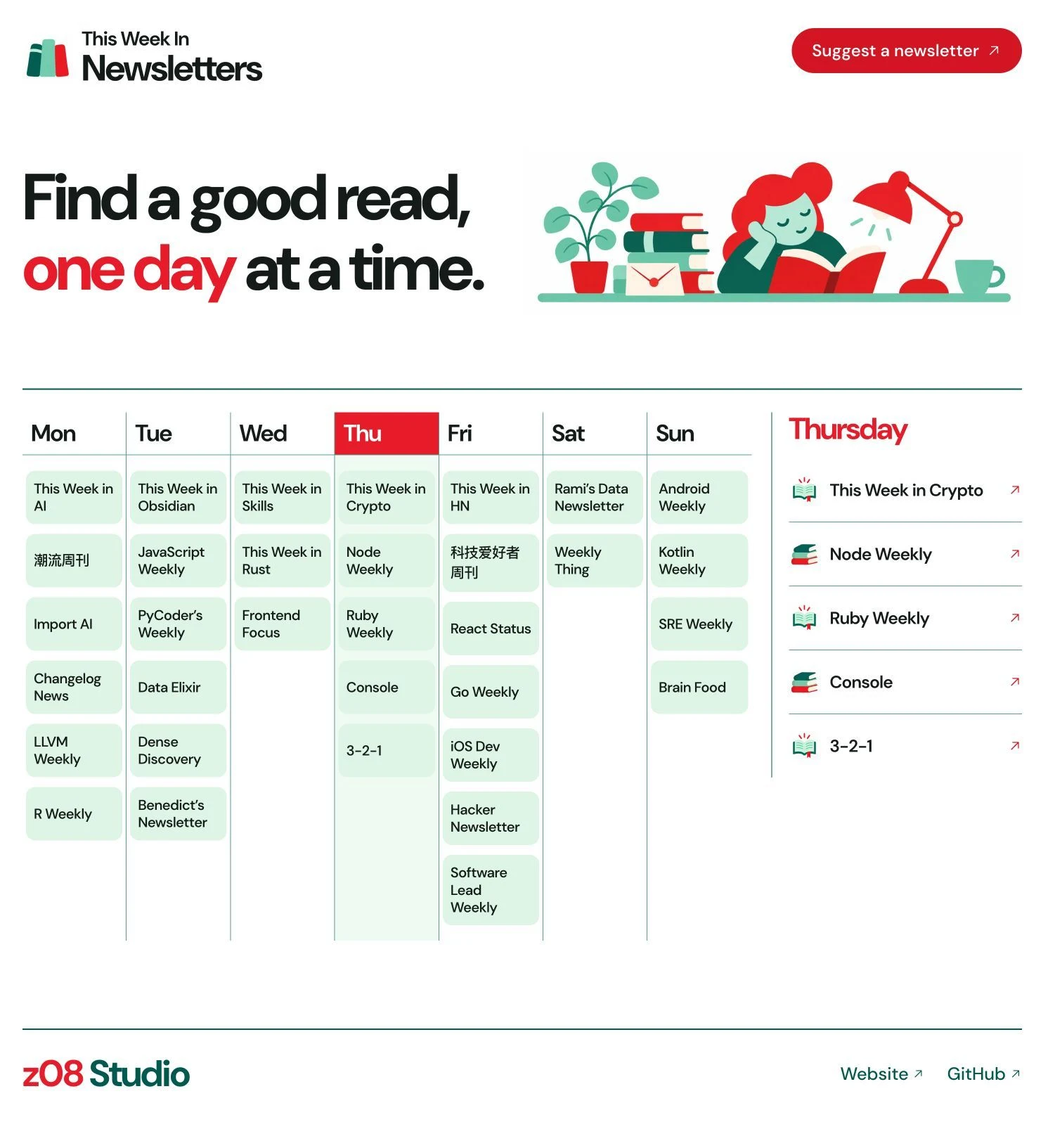
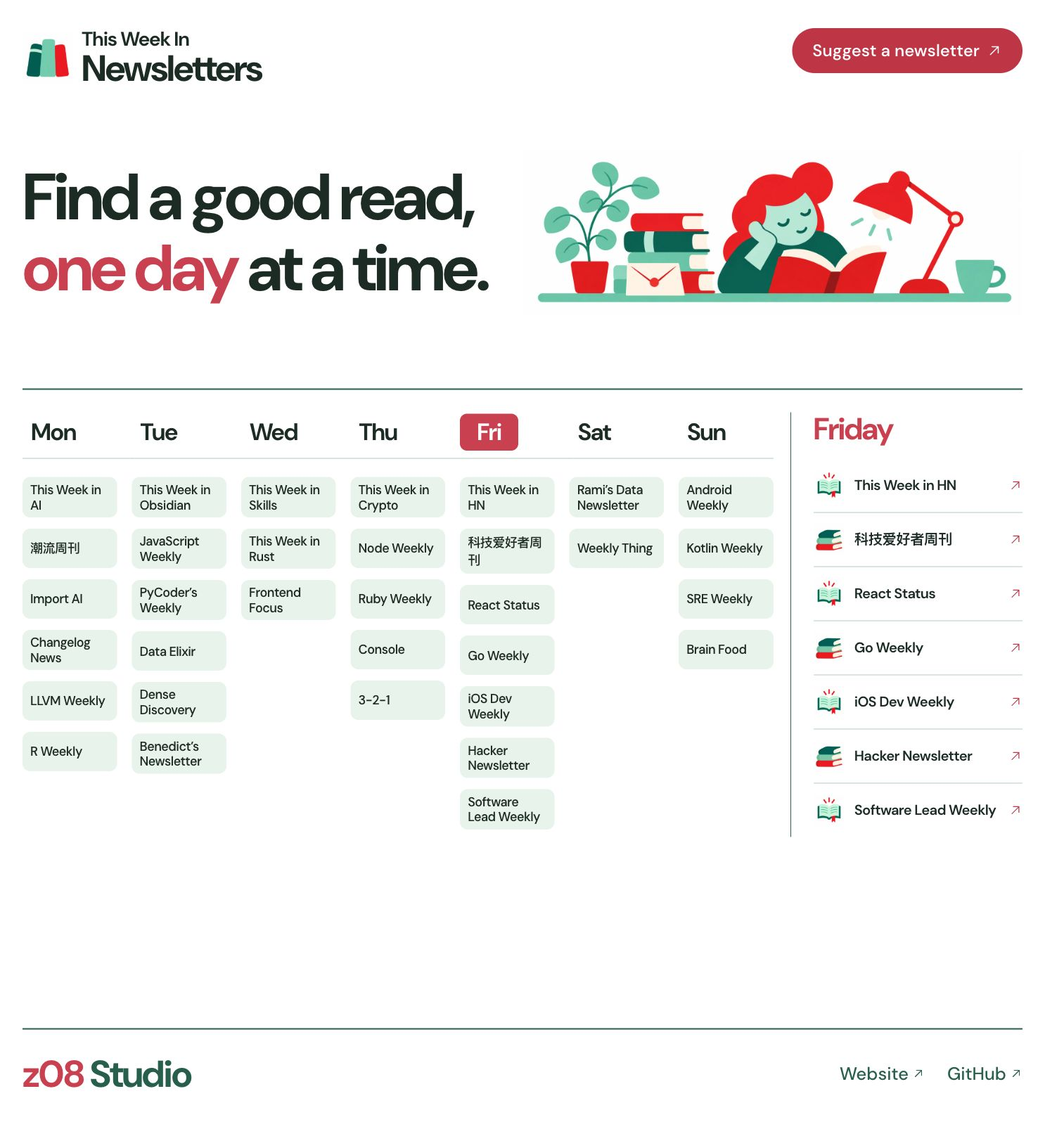
feat: refine newsletter calendar with lighter mint slips, softer raspberry accents, clearer selection states, and stable reading panel spacing

diff --git a/src/styles/global.css b/src/styles/global.css
@@ -7,13 +7,15 @@
 }
 :root {
   --paper: #fff;
-  --ink: #141b18;
-  --teal: #00594f;
-  --rule: #51a18e;
-  --mint: #def5e5;
-  --selected: #eefaf2;
-  --red: #e71b29;
-  --action-red: #d31422;
+  --ink: #1c2c24;
+  --teal: #285f4c;
+  --rule: #b3cdbe;
+  --mint: #e8f3ec;
+  --hover: #dceee3;
+  --selected: #cfe6d8;
+  --selection-border: #4b8169;
+  --red: #c94050;
+  --action-red: #be3546;
   --sans: 'DM Sans', -apple-system, BlinkMacSystemFont, 'PingFang SC', 'Noto Sans CJK SC', sans-serif;
   font-family: var(--sans);
   color: var(--ink);
@@ -45,7 +47,7 @@ h1, h2, h3, p { margin: 0; }
 .arrow-icon { display: inline-block; flex: 0 0 auto; width: 1em; height: 1em; background: currentColor; mask: url('/icons/arrow-up-right.svg') center / contain no-repeat; vertical-align: -.12em; }
 .submit-button { display: inline-flex; align-items: center; justify-content: center; gap: 10px; flex-shrink: 0; align-self: flex-start; min-height: 64px; padding: 12px 28px; border: 1px solid transparent; border-radius: 999px; color: #fff; background: var(--action-red); font-size: 24px; font-weight: 550; line-height: 1.3; text-decoration: none; transition: background 150ms, transform 150ms; }
 .submit-button .arrow-icon { width: 22px; height: 22px; }
-.submit-button:hover { background: #b50c1a; transform: translateY(-1px); }
+.submit-button:hover { background: #a82d3e; transform: translateY(-1px); }
 .submit-button:active { transform: translateY(0); }
 
 .reading-hero { display: grid; flex-shrink: 0; grid-template-columns: minmax(0, .49fr) minmax(0, .51fr); align-items: center; gap: 30px; margin-top: clamp(32px, calc(10svh - 72px), 100px); padding-bottom: clamp(40px, calc(9svh - 40px), 104px); }
@@ -54,33 +56,38 @@ h1, h2, h3, p { margin: 0; }
 .reading-hero h1 em { font-style: normal; color: var(--red); }
 .reading-illustration { display: block; width: 100%; max-width: 1100px; justify-self: end; height: auto; pointer-events: none; mix-blend-mode: multiply; }
 
-.directory { --calendar-sticky-top: 0px; --reading-sticky-top: 24px; display: grid; flex-shrink: 0; grid-template-columns: minmax(0, 1fr) clamp(320px, 24vw, 460px); align-items: start; gap: 28px; padding-block: 32px 40px; border-top: 2px solid var(--teal); }
+/* Reserve room for the longest day overview without stretching the visible slips. */
+.directory { --calendar-sticky-top: 0px; --reading-sticky-top: 24px; display: grid; flex-shrink: 0; grid-template-columns: minmax(0, 1fr) clamp(320px, 22vw, 432px); align-items: start; gap: 24px; min-height: calc(208px + var(--max-day-entries, 7) * 80px); padding-block: 32px 40px; border-top: 2px solid var(--teal); }
 .calendar-viewport { min-width: 0; }
-.calendar-grid { display: grid; grid-template-columns: repeat(7, minmax(0, 1fr)); }
-.calendar-day { display: flex; flex-direction: column; min-width: 0; border-inline-end: 1px solid var(--rule); transition: background 160ms; }
-.calendar-day:last-child { border-inline-end: none; }
-.calendar-day.is-selected { background: var(--selected); }
-.day-heading { position: sticky; top: var(--calendar-sticky-top); z-index: 2; flex: 0 0 auto; border-bottom: 1px solid var(--rule); background: var(--paper); }
-.day-heading button { display: block; width: 100%; min-height: 60px; padding: 10px 8px 10px 12px; border: 0; color: var(--ink); background: transparent; font-size: clamp(25px, 2.25vw, 36px); font-weight: 650; line-height: 1.08; letter-spacing: -.04em; text-align: left; transition: background 150ms, color 150ms; }
-.day-heading abbr { text-decoration: none; }
-.day-heading button:hover { color: var(--teal); background: var(--mint); }
-.day-heading button[aria-pressed='true'] { color: #fff; background: var(--red); }
-.day-heading button:focus-visible { position: relative; z-index: 2; outline-offset: -3px; }
-.calendar-titles { display: flex; flex-direction: column; gap: 14px; list-style: none; margin: 0; padding: 22px 5px; }
+.calendar-grid { --day-gap: clamp(14px, 1.4vw, 28px); display: grid; grid-template-columns: repeat(7, minmax(0, 1fr)); gap: var(--day-gap); }
+.calendar-day { display: flex; flex-direction: column; min-width: 0; }
+.day-heading { position: sticky; top: var(--calendar-sticky-top); z-index: 2; flex: 0 0 auto; background: var(--paper); }
+/* The rule spans the gutters; transparent columns share the same sticky boundary. */
+.day-heading::after { content: ''; position: absolute; inset: auto calc(-1 * var(--day-gap)) 0 0; border-bottom: 1px solid var(--rule); pointer-events: none; }
+.calendar-day:last-child .day-heading::after { right: 0; }
+.day-heading button { display: block; width: 100%; min-height: 66px; padding: 0 0 10px; border: 0; border-radius: 10px; color: var(--ink); background: var(--paper); font-size: clamp(25px, 2.25vw, 36px); font-weight: 650; line-height: 1.08; letter-spacing: -.04em; text-align: left; }
+.day-heading abbr { display: inline-flex; align-items: center; min-height: 52px; padding: 8px 12px; border-radius: 10px; text-decoration: none; transition: background 150ms, color 150ms; }
+.day-heading button:hover abbr { color: var(--teal); background: var(--mint); }
+.day-heading button[aria-pressed='true'] abbr { padding-inline: 24px; color: #fff; background: var(--red); }
+.day-heading button:focus-visible { position: relative; z-index: 2; outline-offset: 2px; }
+.calendar-titles { display: flex; flex-direction: column; gap: 16px; list-style: none; margin: 0; padding: 26px 0 0; }
 .calendar-titles li { flex: 0 0 auto; min-width: 0; }
-.calendar-card { display: flex; align-items: center; width: 100%; min-height: 76px; padding: 12px 10px; scroll-margin-block: 84px 24px; border: 1px solid transparent; border-radius: 13px; color: var(--ink); background: var(--mint); font-size: clamp(19px, 1.36vw, 23px); font-weight: 550; line-height: 1.22; letter-spacing: -.03em; text-align: left; text-wrap: wrap; overflow-wrap: break-word; transition: background 150ms, border-color 150ms, transform 150ms; }
+.calendar-card { display: flex; align-items: center; width: 100%; min-height: 56px; padding: 6px 10px; scroll-margin-block: 84px 24px; border: 1px solid transparent; border-radius: 11px; color: var(--ink); background: var(--mint); font-size: clamp(18px, 1.1vw, 22px); font-weight: 550; line-height: 1.2; letter-spacing: -.03em; text-align: left; text-wrap: wrap; overflow-wrap: break-word; transition: background 150ms, border-color 150ms; }
 .calendar-card:lang(zh-CN) { font-weight: 500; line-height: 1.4; letter-spacing: -.025em; }
-.calendar-card:hover, .calendar-card:focus-visible, .calendar-card[aria-pressed='true'] { border-color: var(--teal); background: #cef0db; transform: translateY(-2px); }
+.calendar-card:hover { background: var(--hover); }
+.calendar-card[aria-pressed='true'] { border-color: var(--selection-border); background: var(--selected); color: var(--teal); }
+/* Keyboard focus replaces the thin selection edge instead of forming a double ring. */
+.calendar-card:focus-visible { border-color: transparent; outline: 2px solid var(--teal); outline-offset: 3px; }
 
-.day-details { min-width: 0; align-self: start; border-left: 1px solid var(--teal); padding-left: 24px; }
+.day-details { min-width: 0; align-self: start; border-left: 1px solid var(--teal); padding-left: 32px; }
 .day-details[data-sticky='true'] { position: sticky; top: var(--reading-sticky-top); }
 .day-detail > h2 { padding-block: 0 18px; color: var(--red); font-size: clamp(32px, 2.9vw, 46px); font-weight: 700; line-height: 1.1; letter-spacing: -.04em; }
 .reading-list > ul { list-style: none; padding: 0; margin: 0; }
 .reading-item { border-bottom: 1px solid var(--rule); }
 .reading-item:last-child { border-bottom: 0; }
-.reading-entry { display: grid; grid-template-columns: 44px minmax(0, 1fr) 20px; align-items: center; gap: 14px; width: 100%; min-height: 90px; padding: 18px 0; border: 0; color: var(--ink); background: none; text-align: left; }
+.reading-entry { display: grid; grid-template-columns: 44px minmax(0, 1fr) 20px; align-items: center; gap: 14px; width: 100%; min-height: 76px; padding: 12px 0; border: 0; color: var(--ink); background: none; text-align: left; }
 .reading-motif { display: block; width: 44px; height: 48px; object-fit: contain; mix-blend-mode: multiply; }
-.reading-name { min-width: 0; font-size: clamp(20px, 1.65vw, 27px); font-weight: 600; line-height: 1.2; letter-spacing: -.035em; overflow-wrap: break-word; }
+.reading-name { min-width: 0; font-size: clamp(20px, 1.35vw, 25px); font-weight: 600; line-height: 1.2; letter-spacing: -.035em; overflow-wrap: break-word; }
 .reading-name:lang(zh-CN) { letter-spacing: -.02em; }
 .reading-entry > .arrow-icon { width: 20px; height: 20px; color: var(--action-red); }
 .reading-entry:hover .reading-name { color: var(--teal); }
@@ -89,29 +96,29 @@ h1, h2, h3, p { margin: 0; }
 .empty-day > p:last-child { font-size: 16px; line-height: 1.5; }
 
 .newsletter-detail { scroll-margin-top: 24px; }
-.back-to-day { display: inline-flex; align-items: center; gap: 8px; min-height: 32px; padding: 0; margin: 0 0 12px; border: 0; background: none; color: var(--teal); font-size: 14px; font-weight: 550; }
+.back-to-day { display: inline-flex; align-items: center; gap: 8px; min-height: 32px; padding: 0; margin: 0 0 24px; border: 0; background: none; color: var(--teal); font-size: clamp(14px, .9vw, 18px); font-weight: 550; }
 .back-to-day:hover { text-decoration: underline; }
 .back-arrow { display: inline-block; width: 19px; height: 19px; background: currentColor; mask: url('/icons/arrow-left.svg') center / contain no-repeat; }
 .detail-heading { display: flex; align-items: center; gap: 10px; }
 .detail-motif { display: block; flex: 0 0 auto; width: 44px; height: 44px; object-fit: contain; mix-blend-mode: multiply; }
 .detail-heading h2 { min-width: 0; color: var(--red); font-size: clamp(28px, 2.1vw, 36px); font-weight: 700; line-height: 1.1; letter-spacing: -.045em; overflow-wrap: break-word; }
-.detail-description { margin-top: 16px; font-size: 16px; line-height: 1.55; }
-.detail-facts { display: flex; flex-wrap: wrap; gap: 5px 12px; padding-block: 12px 16px; margin: 0; font-size: 14px; line-height: 1.45; }
+.detail-description { margin-top: 16px; font-size: clamp(16px, .95vw, 19px); line-height: 1.45; letter-spacing: -.01em; }
+.detail-facts { display: flex; flex-wrap: wrap; gap: 5px 12px; padding-block: 12px 16px; margin: 0; font-size: clamp(14px, .85vw, 17px); line-height: 1.45; }
 .detail-facts > div { min-width: 0; }
 .detail-facts > div + div { padding-left: 12px; border-left: 1px solid var(--rule); }
 .detail-facts > .detail-topics { color: var(--teal); }
 .detail-facts dd { margin: 0; }
-.publication-link { display: inline-flex; align-items: center; justify-content: space-between; gap: 24px; min-height: 44px; padding: 10px 16px; border-radius: 9px; background: var(--mint); color: var(--teal); font-size: 15px; font-weight: 600; text-decoration: none; }
-.publication-link:hover { background: #cef0db; }
-.recent-issues { margin-top: 20px; padding-top: 16px; border-top: 1px solid var(--rule); }
-.recent-issues h3 { margin-bottom: 6px; color: var(--teal); font-size: 22px; font-weight: 650; letter-spacing: -.03em; }
+.publication-link { display: inline-flex; align-items: center; justify-content: space-between; gap: 24px; min-height: 48px; padding: 10px 18px; border-radius: 9px; background: var(--mint); color: var(--teal); font-size: clamp(15px, .95vw, 19px); font-weight: 600; text-decoration: none; }
+.publication-link:hover { background: var(--hover); }
+.recent-issues { margin-top: 24px; padding-top: 18px; border-top: 1px solid var(--rule); }
+.recent-issues h3 { margin-bottom: 6px; color: var(--teal); font-size: clamp(22px, 1.4vw, 27px); font-weight: 650; letter-spacing: -.03em; }
 .recent-issues ol { list-style: none; padding: 0; margin: 0; }
-.recent-issues li + li { border-top: 1px solid #51a18e55; }
-.recent-issues li a { display: flex; align-items: center; justify-content: space-between; gap: 12px; min-height: 60px; padding-block: 10px; font-size: 16px; font-weight: 500; line-height: 1.3; text-decoration: none; }
+.recent-issues li + li { border-top: 1px solid var(--rule); }
+.recent-issues li a { display: flex; align-items: center; justify-content: space-between; gap: 12px; min-height: 60px; padding-block: 10px; font-size: clamp(16px, 1vw, 20px); font-weight: 500; line-height: 1.3; text-decoration: none; }
 .recent-issues li a:hover { color: var(--action-red); }
 .recent-issues time { display: block; padding-top: 5px; color: var(--teal); font-size: 12px; font-weight: 400; line-height: 1.4; }
-.recent-issues .arrow-icon { width: 17px; height: 17px; color: var(--action-red); }
-.archive-link { display: inline-flex; align-items: center; gap: 6px; min-height: 36px; margin-top: 8px; color: var(--action-red); font-size: 15px; font-weight: 550; text-decoration: none; }
+.recent-issues .arrow-icon { width: 20px; height: 20px; color: var(--action-red); }
+.archive-link { display: inline-flex; align-items: center; gap: 6px; min-height: 40px; margin-top: 8px; color: var(--action-red); font-size: clamp(15px, .95vw, 19px); font-weight: 550; text-decoration: none; }
 .archive-link:hover { text-decoration: underline; }
 
 .site-footer { display: grid; flex-shrink: 0; grid-template-columns: 1fr auto; align-items: center; gap: 32px; margin-top: auto; padding-block: 34px 40px; border-top: 2px solid var(--teal); }
@@ -141,7 +148,7 @@ h1, h2, h3, p { margin: 0; }
 @media (max-width: 1270px) {
   .reading-hero { margin-top: 32px; padding-bottom: 40px; }
   .reading-hero h1 { font-size: clamp(34px, 4.3vw, 52px); }
-  .directory { grid-template-columns: 1fr; gap: 28px; }
+  .directory { grid-template-columns: 1fr; gap: 28px; min-height: 0; }
   .day-details { padding: 24px 0 0; border-left: 0; border-top: 1px solid var(--teal); }
   .day-details[data-sticky='true'] { position: static; }
   .reading-entry { grid-template-columns: 44px minmax(0, 1fr) 20px; min-height: 80px; }
@@ -161,9 +168,14 @@ h1, h2, h3, p { margin: 0; }
   .reading-hero h1 { font-size: clamp(36px, 8vw, 62px); line-height: 1.08; }
   .reading-illustration { max-width: 720px; justify-self: center; }
   .directory { gap: 20px; padding-block: 20px 32px; }
-  .calendar-day, .calendar-day:last-child { border: 0; }
+  .calendar-grid { --day-gap: 4px; }
   .day-heading { position: static; border: 0; }
+  .day-heading::after { display: none; }
   .day-heading button { min-height: 48px; padding: 10px 0; font-size: clamp(18px, 4.8vw, 26px); text-align: center; }
+  .day-heading abbr { justify-content: center; width: 100%; min-height: 28px; padding: 0; border-radius: 7px; }
+  .day-heading button[aria-pressed='true'] abbr { padding-inline: 0; }
+  .day-heading button[aria-pressed='true'] { color: #fff; background: var(--red); }
+  .day-heading button:hover abbr { color: inherit; background: transparent; }
   .calendar-titles { display: none; }
   .day-detail > h2 { font-size: 34px; }
   .reading-entry { min-height: 84px; padding-block: 16px; gap: 12px; }

diff --git a/design-qa.md b/design-qa.md
@@ -1,65 +1,61 @@
-# Daily desk design QA
+# Light slips design QA
 
 **Findings**
 
-No actionable P0/P1/P2 findings remain. The implementation follows the second displayed footer/typography concept selected by the editor: DM Sans, a stronger masthead, whole-row publication controls, and a footer at the bottom of short pages without covering long content.
+No actionable P0/P1/P2 findings remain. The implementation follows the selected first calendar concept and its accepted color refinement: lighter mint slips, wider day gutters, a compact raspberry weekday tab, forest-green accents, and one jade publication selection. The approved masthead and footer composition remain in place.
 
 **Source, viewport, and comparisons**
 
-- Exact selected source: `docs/design/daily-desk-reference.png`, 1214 x 1295 pixels, the second displayed image from the latest typography exploration.
-- Matching state: Thursday day overview, white theme, all 33 publications, no selected publication.
-- Final browser capture: `output/daily-desk/desktop-final.png`, 1501 x 1596 pixels at a 1501 x 1596 CSS viewport and devicePixelRatio 1, captured in the in-app browser.
-- Source normalization: proportional containment in a 1501 x 1596 white frame, with approximately 2px horizontal padding. No stretching or device chrome. The generated source is a visual concept, not a literal CSS specification.
-- Full-view evidence, opened together: `output/daily-desk/comparison-final.png`.
-- Focused reader evidence: `output/daily-desk/reader-comparison.png`, equal 380 x 550 regions at x1090, y575 in the normalized source and implementation. Type, rows, motifs, arrows, and separators are readable at this size.
-- Responsive evidence: `mobile-day.png`, `mobile-detail.png`, `mobile-320.png`, `mobile-comparison.png`, and `tablet-final.png` under `output/daily-desk/`.
-- Other evidence: `desktop-detail-final.png`, `scroll-desktop.png`, `short-screen.png`, and `wide.png` in the same folder.
-- Durable previews: `docs/design/desktop.webp`, `publication-detail.webp`, `mobile.webp`, and `scrolled.webp`.
+- Exact accepted source: `docs/design/light-slips-reference.png`, 2048 x 768 pixels. This is the refined image displayed after the editor selected Light slips, not either alternative from the initial set.
+- Implementation state: Friday with Software Lead Weekly selected, all 33 publications, and reviewed issues 727, 726, and 725. Local route: `/?day=friday&newsletter=software-lead-weekly`.
+- Primary browser viewport: 2027 x 1600 CSS pixels, devicePixelRatio 1, in the in-app browser. The full-page screenshot is `output/light-slips/desktop-final.jpg`, 2012 x 1600 pixels; the export omits the stable scrollbar gutter.
+- The visual target contains only the directory component. Its content crop is x56, y68, width1948, height630. The matching implementation capture starts at x32, y676.86 with the same 1948 x 630 dimensions. Both are unscaled, with no device frame or browser chrome. Header/footer remain governed by the previously accepted Daily desk composition.
+- Full component comparison: `output/light-slips/comparison-final.png`, source above implementation. Both images were opened in this combined input.
+- Focused reader comparison: `output/light-slips/reader-comparison-final.png`, source left, implementation right, equal 432 x 630 crops beginning at x1516 in each normalized component. This comparison was also opened and inspected.
+- Durable evidence: `docs/design/calendar-detail.webp`, `desktop.webp`, `publication-detail.webp`, `mobile.webp`, and `scrolled.webp`. Working captures and measurements are under ignored `output/light-slips/`.
 
 **Required fidelity surfaces**
 
-- Typography: the stylesheet and preload use the official local variable DM Sans WOFF2, weights 400–800. The asset responds successfully as `font/woff2`; browser-computed styles specify DM Sans. Display, weekday, label, profile, and footer type now share this sans family, with system Chinese fallbacks. The desktop headline is two lines. Actual glyphs and reviewed names take precedence over generated text approximations.
-- Layout rhythm: header, hero, separator, calendar, lower breathing space, and footer follow the selected composition. A 100svh minimum-height body and flex-column shell place the footer at the bottom of short pages. Bounded masthead gaps shrink on shorter screens. Long content grows the document normally; cards and calendar rules are not stretched to fill spare height.
-- Colors: existing white, ink, teal, mint, and red tokens remain. Selection stays red/white; title slips remain mint. No new section panels, gradients, badges, metrics, search, or filters were introduced.
-- Assets: original reading illustrations and actual Phosphor arrows are reused at their natural aspect ratios. The original hero asset is flatter than its generated reinterpretation; retaining it preserves the established identity. Decorative imagery cannot intercept the suggestion link. No placeholder, CSS art, or screenshot-as-interface substitute was introduced.
-- Content: all 33 publication records and 85 reviewed issue URLs are unchanged. Each overview row is one accessible button with the original name, motif, and arrow. Repeated visible View details captions are removed; their accessible action labels remain. Compact profiles and up to three real past issues remain available. Footer still contains only studio, Website, and GitHub.
+- Fonts and typography: real, locally served variable DM Sans remains active, with system Chinese fallbacks. Calendar labels use 18–22px medium weight and natural wrapping; profile auxiliary text scales from practical mobile minima to 17–20px desktop values. The refined description fits two lines at the target width. A native typeface and complete names take precedence over inconsistent generated glyphs and line breaks.
+- Spacing and layout rhythm: seven equal day tracks, 14–28px gutters, 56px minimum slips, 11px radii, and consistent 16px item gaps reproduce the lighter treatment. The selected weekday uses a compact rounded tab inside a full-width button. Tall vertical calendar rules and the whole-column selection wash are removed. A quiet horizontal rule spans the heading gutters. Original page scrolling, masthead spacing, and the near-bottom footer are retained.
+- Colors and tokens: white, ink `#1c2c24`, forest green `#285f4c`, sage rules `#b3cdbe`, mint `#e8f3ec`, jade `#cfe6d8`, selection edge `#4b8169`, raspberry `#c94050`, and smaller red links `#be3546`. Browser-computed normal, selected, and weekday backgrounds match the intended tokens. No gradients, shadows, or new surfaces were added. Calculated contrast is 12.86:1 for ordinary slip text, 5.64:1 for selected text, 4.85:1 for white weekday-tab text, 5.55:1 for small red links, and 7.42:1 for the green focus outline against white. These checks do not imply a full accessibility certification.
+- Image quality and assets: original raster reading illustrations and the real Phosphor arrows are reused, at natural aspect ratios. The book motif is the original artwork rather than a generated reinterpretation. No custom SVG/CSS illustration, placeholder, or screenshot-as-interface replacement was introduced. Original brighter red/seafoam artwork remains a deliberate identity choice alongside the softer interface colors.
+- Copy and content: the 33 publication records, weekdays, descriptions, external links, and 85 reviewed issue URLs are unchanged. Calendar slips contain names only. The day overview, compact profile, original issues, suggestion form, Website, and GitHub retain their existing behavior and labels. There is no search, added microcopy, new metadata, or invented readership metric.
 
-**Completed checks**
+**Interaction, height, and responsive checks**
 
-- All 33 profiles and seven day overviews were selected. `heights-desktop.json` records 40 completed states: calendar height 752px, maximum reader height 706px, and absolute footer bottom exactly 1596px in every state.
-- Whole-row Console activation opens the correct profile and three original issue URLs. Keyboard activation focuses the resulting heading; return focuses the weekday heading. Browser Back/Forward restores the profile and overview. Data Elixir was also checked independently.
-- At 390 x 844 and 320 x 844, Friday retains seven entries, Software Lead Weekly opens with three issue links, and return restores Friday. Document widths are 375px and 305px with the stable gutter; no horizontal overflow or nested list scrolling was found. The focused heading outline in the mobile evidence is intentional keyboard feedback.
-- At 768 x 1024, the seven weekday buttons replace the hidden calendar-card lists. Home selects Monday. The final tablet capture was taken after the color transition settled; selected Thursday, its label, and its content agree.
-- At 1501 x 760, normal scrolling pins weekday headings at y0 and contains the reader before the footer: reader bottom y586.98, footer top y626.98. The roughly 1392px document scrolls naturally.
-- At 1501 x 480, the 597px Rami profile becomes static, keeping its content reachable through the document.
-- At 3004 x 1596, no horizontal overflow or wrapped calendar name was found. The approximately 1614px composition ends with the footer at the document bottom.
-- The suggestion action's lower edge resolves to the actual link; its existing form URL is preserved. Application console errors/warnings: none in the reviewed log.
-- Astro check: 27 files, zero errors/warnings/hints. Build: eight static pages, successful. Diff whitespace check: passed.
-
-The initial preview tab stopped responding during an early batch. The completed checks above ran in a fresh tab in the same in-app browser. No separate Playwright CLI browser was needed.
+- `heights-final.json` records all 33 profiles and seven day overviews at each of two widths: 80 states in total. At 2027 x 1600 the directory stays 768px high, maximum reader height is 639px, footer top is 1463.52px, and footer bottom is 1600px. At 1501 x 1596 the directory remains 768px, maximum reader height is 690px, footer top is 1462.45px, and footer bottom is 1596px. All recorded selections preserve scrollY 0.
+- The desktop minimum derives from the maximum number of publications on a day. It reserves sufficient reader space without stretching visible slips or painting tall empty column backgrounds. Longer future content may increase document height normally; stacked layouts remove the minimum.
+- Tab focuses a real calendar button with a 2px outline and transparent border, avoiding a doubled selection ring. Enter on This Week in HN opens the correct profile and focuses its heading. Keyboard return focuses Friday. Home/End move the weekday picker to Monday/Sunday. Browser Back/Forward restores the day and publication.
+- At 390 x 844, Friday exposes all seven reading rows. Software Lead Weekly opens with the three exact reviewed issue URLs. Keyboard focus and pointer activation were checked independently. The pointer preview has no unintended focus rectangle.
+- At 320 x 844, the layout has a 305px content width, three reachable issue links, and no horizontal overflow. At 390px the corresponding content width is 375px. The reader is static and no calendar/reader element has an internal auto/scroll overflow.
+- At 768 x 1024, seven compact weekday buttons replace the card lists. Friday and its list agree in the saved tablet capture. At 1100 x 900 the full calendar remains visible and the static reader stacks beneath it; at 1366 x 900 the side reader remains readable, with a 678px Rami profile inside the 768px directory. Neither width produces horizontal content overflow.
+- At 3004 x 1596, every calendar name fits on one line and no horizontal content overflow is present.
+- At 1501 x 760 and scrollY575, all seven weekday headings sit at y0. The contained reader ends at y586.44 and the footer begins at y626.44, leaving the intended gap. At 1501 x 480, the 685px Rami profile becomes static so all content is reachable through the document. The first native scroll attempt did not move the page; only the later verified End-key capture is accepted as scrolled evidence.
+- Suggestion and studio link URLs remain intact. Application console errors/warnings in the reviewed log: none. Astro check: 27 files, zero errors/warnings/hints. Production build: eight static pages, successful. Diff whitespace check: passed.
 
 **Comparison history**
 
-1. `comparison-initial.png` versus `desktop-initial.png`: P2 display and utility text were visibly undersized. Footer placement and grid alignment already matched. Initial result was blocked, recorded in `qa-initial.md`.
-2. Increased the actual DM Sans display, wordmark, suggestion action, labels, and footer sizes. Re-captured `desktop-refined.png`; reviewed `comparison-refined.png` and the focused reader comparison.
-3. Reviewed the final full-view comparison, completed desktop states, mobile detail comparison, and stable tablet capture. The hierarchy and footer composition now match the intended direction, with no remaining P0/P1/P2 finding. No additional visual changes followed this final comparison.
+1. `comparison-initial.png` identified P2 auxiliary reader text below the selected scale and a weekday tab narrower than the source. The blocked findings are retained in `output/light-slips/qa-initial.md`.
+2. Increased responsive reader typography, title spacing, tab padding, and arrow size. `comparison-refined.png` then exposed a three-line description where the source used two lines, shifting the issue section downward. Calibrated description text to 19px with slight negative tracking and adjusted slip padding to prevent avoidable name wrapping.
+3. Opened the final full and focused comparisons. Type hierarchy, two-line description, selected states, overall spacing, and palette now follow the target. Height verification identified a small reader-driven directory increase at a narrower desktop width; increasing the data-derived minimum by 8px removes it. Rechecked all 80 states with the final 768px minimum and inspected final desktop, mobile, tablet, and scrolled evidence.
 
 **Open questions and intentional differences**
 
-- The generated source outlines Console while showing a day overview. The implementation keeps those states consistent: no publication outline in a day overview, and an outline only for an open publication profile.
-- Native DM Sans, the original artwork, full reviewed text, natural wrapping, and accessible controls take precedence over inconsistent generated glyphs or illustration proportions.
-- The selected image is desktop-only. Phone/tablet behavior was verified using the established responsive flow, not compared to an unavailable mobile mock.
+- The bitmap has slightly unequal column widths and inconsistent repeated row heights. The responsive implementation uses equal tracks and consistent spacing rather than encoding those generated irregularities.
+- Dense Discovery and other names can wrap differently at intermediate widths. Complete text, comfortable padding, and natural wrapping take precedence over forced line breaks from a raster image.
+- The selected source is desktop-only. Phone and tablet behavior follows the established responsive flow and was verified directly; no unavailable mobile reference is claimed.
 
 **Implementation checklist**
 
-- [x] Resolve the exact second displayed target and retain its source.
-- [x] Bundle the real font/license, update preload/credits, and reuse original imagery.
-- [x] Implement the footer shell and spacing without overlays or internal scrolling.
-- [x] Verify day/profile selection, links, history, keyboard focus, and responsive flow.
-- [x] Inspect full and focused comparisons, check the completed height states, and build.
+- [x] Preserve the exact refined image and the existing page composition.
+- [x] Apply the softer palette, lighter slips, compact weekday tab, and distinct focus/selection treatment.
+- [x] Keep all data, real illustrations, icons, and reading interactions.
+- [x] Compare full and focused normalized evidence, resolve P2 drift, and verify stable heights.
+- [x] Check keyboard/history, phones/tablets/laptops, wide and short screens, console output, and the production build.
 
 **Follow-up polish**
 
-Minor glyph and original-art proportions differ from the generated bitmap as expected P3 differences. No additional polish is required for handoff. Recheck heights and responsive behavior when adding longer content.
+Only expected P3 differences remain: rasterized reference glyphs, original-art colors/proportions, and generated irregularities in repeated spacing. Recheck heights when adding longer real content.
 
 final result: passed

diff --git a/docs/maintenance.md b/docs/maintenance.md
@@ -27,11 +27,11 @@ AI publishes Monday, Obsidian Tuesday, Skills Wednesday, Crypto Thursday, and HN
 
 Click a weekday heading to switch to its full list. Arrow keys move between weekday buttons; Home and End select Monday and Sunday. Click a calendar card or a full reading-list row to inspect a publication. Each row is one button with an accessible View details label; the repeated visible caption is omitted. Hover and focus do not switch views. Back to the weekday returns to the list. Keyboard activation moves focus to the resulting heading. Normal browser Back and Forward restore the previous view, and a URL such as `?day=thursday&newsletter=console` opens the same details after a reload. External website, archive, and issue links open in a new tab with `noopener noreferrer`.
 
-The page has a 2400px maximum width, a flexible calendar, and a constrained reading column. Card labels use natural wrapping, with no truncation or forced single-line ellipses. Calendar columns and reading panels have no fixed height, max-height, or internal scrolling. The document scrollbar has a stable gutter, avoiding width changes when a view becomes scrollable.
+The page has a 2400px maximum width, a flexible calendar, and a constrained reading column. The calendar uses transparent day columns, wider gutters, and lighter mint slips with a 56px minimum target height. Labels wrap naturally, without truncation or forced single-line ellipses. One jade slip marks the selected publication; the weekday uses a small raspberry tab. Keyboard focus replaces the slip's thin border with a clearly visible outer outline. Calendar columns and reading panels have no fixed height, max-height, or internal scrolling. The document scrollbar has a stable gutter, avoiding width changes when a view becomes scrollable.
 
-The body has a `100svh` minimum height and a flex-column site shell. The main region consumes spare height, placing the footer at the bottom of short pages without fixing or overlaying it. Long content increases document height normally. The masthead uses bounded viewport-height spacing that becomes smaller on shorter screens. Calendar items keep their content-driven dimensions; spare height is not used to stretch individual slips or their column rules.
+The body has a `100svh` minimum height and a flex-column site shell. The main region consumes spare height, placing the footer at the bottom of short pages without fixing or overlaying it. Long content increases document height normally. The masthead uses bounded viewport-height spacing that becomes smaller on shorter screens. `WeeklyCalendar.astro` passes the longest day count to `--max-day-entries`; the desktop directory reserves `208px + count * 80px` as a minimum for the day heading, overview rows, profile text, and outer spacing. The current seven-entry maximum yields 768px. Content can exceed this minimum naturally. The minimum is removed when the reader stacks below the calendar. Calendar items retain their content-driven dimensions; blank space is not painted as tall day panels, and no tall column rules are drawn.
 
-Desktop weekday headings stick to the viewport top while their calendar columns pass. `ResizeObserver` and window resizing keep the reader sticky only when its full content fits between a 24px top gap and a 24px bottom allowance. A taller reader stays in normal flow, so all content remains reachable. CSS sticky containment stops the panel before the footer. The review route accounts for its own sticky review bar. Desktop pointer selections preserve document scroll position. Compact spacing keeps all current profiles and day lists within the calendar's height at the reviewed desktop widths, so these selections do not move the footer. Future longer content may naturally increase page height.
+Desktop weekday headings stick to the viewport top while the shared transparent calendar columns pass. A short horizontal rule spans the gutters beneath the headings. `ResizeObserver` and window resizing keep the reader sticky only when its full content fits between a 24px top gap and a 24px bottom allowance. A taller reader stays in normal flow, so all content remains reachable. CSS sticky containment stops the panel before the footer. The review route accounts for its own sticky review bar. Desktop pointer selections preserve document scroll position. The directory minimum accommodates all current profiles and day lists at the reviewed desktop widths, so these selections do not move the footer. Future longer content may naturally increase page height.
 
 At 1270px and below, the reader moves below the calendar and does not stick. At 1000px and below, a seven-button weekday picker replaces the small-card overview. An offscreen selected reader is revealed with normal document scrolling, respecting reduced motion. The no-JavaScript fallback exposes direct publication links grouped by day.
 
@@ -49,7 +49,7 @@ The form includes newsletter name, public URL, one-sentence description, publica
 
 ## Design and assets
 
-The homepage follows the selected [Daily desk reference](design/daily-desk-reference.png): white background, red accents, mint title slips, dark teal rules, DM Sans typography, and the existing reading illustration. `global.css` owns the tokens and responsive layout. DM Sans is served locally as a variable WOFF2 with its SIL Open Font License. Chinese labels use a compatible system sans fallback. Older Newsreader and Manrope files remain as historical assets and are not preloaded by the current layout. Source illustrations and prompts remain under `assets/illustrations/`; optimized WebP files are served from `public/illustrations/`. See [asset credits](../ASSETS.md).
+The homepage retains the [Daily desk composition](design/daily-desk-reference.png) and implements the selected [Light slips calendar](design/light-slips-reference.png). `global.css` owns the palette: white `#ffffff`, ink `#1c2c24`, forest green `#285f4c`, sage rules `#b3cdbe`, mint `#e8f3ec`, selected jade `#cfe6d8`, selection edge `#4b8169`, raspberry `#c94050`, and smaller red links `#be3546`. DM Sans is served locally as a variable WOFF2 with its SIL Open Font License. Chinese labels use a compatible system sans fallback. Older Newsreader and Manrope files remain as historical assets and are not preloaded by the current layout. Source illustrations and prompts remain under `assets/illustrations/`; optimized WebP files are served from `public/illustrations/`. This UI refinement reuses the original artwork. See [asset credits](../ASSETS.md).
 
 Studio links live in `src/data/site.ts`. The footer contains the studio signature, Website, and GitHub only. The slogan and X link were removed at the editor’s request. Review routes under `/designs/` remain noindex and are excluded from the sitemap. The historical `/designs/soft/` route now previews the selected illustrated calendar; the other four early studies retain their own styles and preview code. See [design directions](design-directions.md).
 

diff --git a/docs/design-directions.md b/docs/design-directions.md
@@ -1,8 +1,10 @@
 # Newsletter directory design directions
 
-The homepage follows the second displayed [Daily desk concept](design/daily-desk-reference.png) from the footer and typography exploration. It retains the illustrated calendar and mint title slips, uses DM Sans throughout, gives the masthead a clearer type hierarchy, and places the footer near the viewport bottom when content is short. Weekday overviews use a single selectable row per publication, with a book motif, name, and arrow instead of repeated View details captions.
+The homepage combines the [Daily desk composition](design/daily-desk-reference.png) with the selected [Light slips refinement](design/light-slips-reference.png). The latter is the refined version of the first displayed calendar option: softer raspberry red, botanical mint, forest green, lighter title slips, wider gutters, and a compact active-weekday tab. Tall column dividers and the full-column selection wash are removed. A single jade slip marks the selected publication; keyboard focus has its own visible outline.
 
-The original composition is retained at [selected-reference.png](design/selected-reference.png), and the earlier [scroll-reading concept](design/scroll-reading-reference.png) records the accepted compact-profile behavior. Both remain historical references. The current design uses the same 33 publications, 85 reviewed issue links, original illustration assets, wide calendar, and two-link studio footer. Selecting a publication opens its compact profile in the right pane. Sticky headings and a viewport-aware reader retain one document scroll. See `design-qa.md` for comparison evidence and verification status.
+The illustrated masthead, DM Sans typography, near-bottom footer on short pages, and existing reading interactions remain. Weekday overviews use one selectable row per publication, with a book motif, name, and arrow instead of repeated View details captions. The reader typography scales with desktop width. A content-derived desktop minimum reserves space for the longest day and current profiles, keeping the footer stable during selection without stretching the visible slips.
+
+The original composition is retained at [selected-reference.png](design/selected-reference.png), and the earlier [scroll-reading concept](design/scroll-reading-reference.png) records the accepted compact-profile behavior. The current design uses the same 33 publications, 85 reviewed issue links, original illustration assets, wide calendar, and two-link studio footer. Selecting a publication opens its compact profile in the right pane. Sticky headings and a viewport-aware reader retain one document scroll. See `design-qa.md` for comparison evidence and verification status.
 
 The earlier five-direction gallery remains available at `/designs/`:
 

diff --git a/ASSETS.md b/ASSETS.md
@@ -27,4 +27,4 @@ WebP files are resized and compressed copies of the generated originals. No UI t
 
 `public/z08-mark.svg` is the existing studio wordmark from [z08 Studio](https://z08studio.com), retained from the earlier study. The current reference uses a serif z08 Studio text signature. `public/brand-mark.svg` and `public/favicon.svg` retain the portfolio's existing W identity. Avatars under `public/newsletters/` belong to their respective publications and remain available to earlier studies.
 
-The current approved UI reference is `docs/design/daily-desk-reference.png`, the second displayed typography and footer concept, generated with the built-in ImageGen tool from screenshots of the actual site. Historical references remain at `docs/design/selected-reference.png` and `docs/design/scroll-reading-reference.png`. This refinement reuses all original illustrations and Phosphor icons. Newsletter titles and external websites retain their original ownership; editorial book illustrations do not impersonate publication logos.
+The current calendar and palette reference is `docs/design/light-slips-reference.png`, the refined version of the first displayed calendar concept. It was generated with the built-in ImageGen tool from the selected image, itself grounded in the user's screenshot and a live page capture. The full-page composition remains grounded in `docs/design/daily-desk-reference.png`. Historical references remain at `docs/design/selected-reference.png` and `docs/design/scroll-reading-reference.png`. This refinement reuses all original illustrations and Phosphor icons; the existing artwork retains its original red/seafoam colors while interface tokens use the selected softer palette. Newsletter titles and external websites retain their original ownership; editorial book illustrations do not impersonate publication logos.

diff --git a/README.md b/README.md
@@ -6,7 +6,7 @@ Browse 33 newsletters from Monday through Sunday. Select a weekday for its readi
 
 [Suggest a newsletter](https://docs.google.com/forms/d/e/1FAIpQLScNKI_gcJOtPcRBZZ4xB-IUREZraY1j6dz1tQyKn3MOBTl4Ag/viewform). Every submission is reviewed manually before inclusion.
 
-The selected design combines an illustrated masthead, DM Sans typography, a weekly calendar with a compact reading panel, and the z08 Studio footer. Short pages place the footer near the viewport bottom; longer pages scroll naturally. See [the design reference](docs/design/daily-desk-reference.png), [schedule research](docs/newsletter-sources.md), and [maintenance instructions](docs/maintenance.md). The repository is private; the website is intended for public readers.
+The selected design combines an illustrated masthead, DM Sans typography, light mint newsletter slips, a compact reading panel, and the z08 Studio footer. Softer raspberry and forest-green accents distinguish the active day and publication. Short pages place the footer near the viewport bottom; longer pages scroll naturally. See [the calendar reference](docs/design/light-slips-reference.png), [schedule research](docs/newsletter-sources.md), and [maintenance instructions](docs/maintenance.md). The repository is private; the website is intended for public readers.
 
 ## Generator code
 
